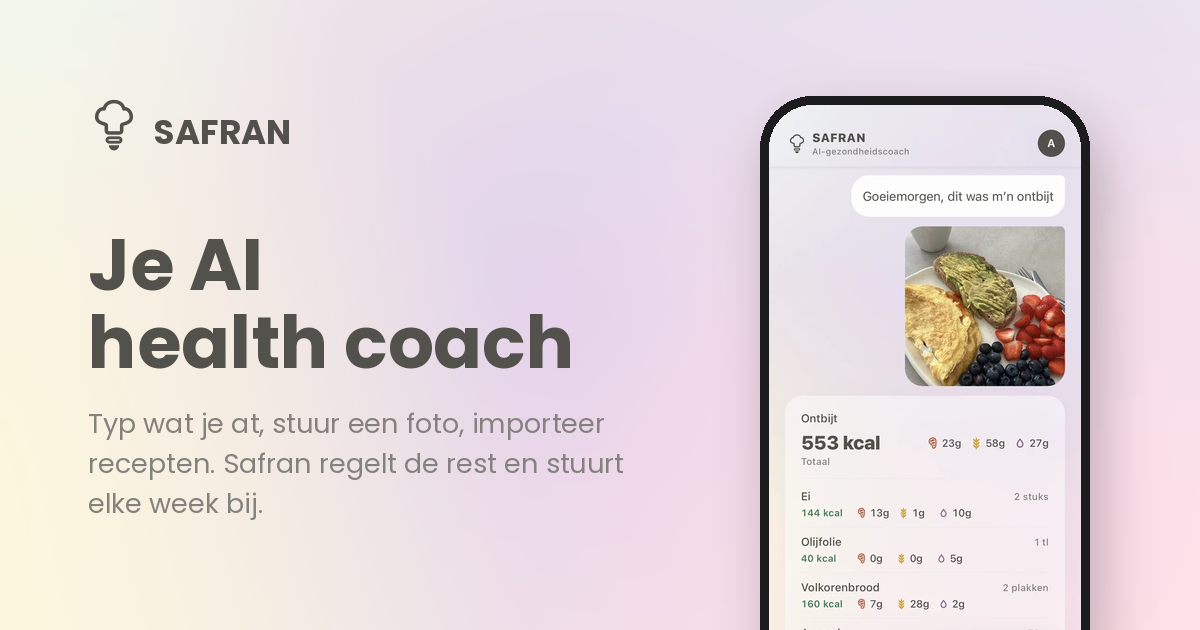
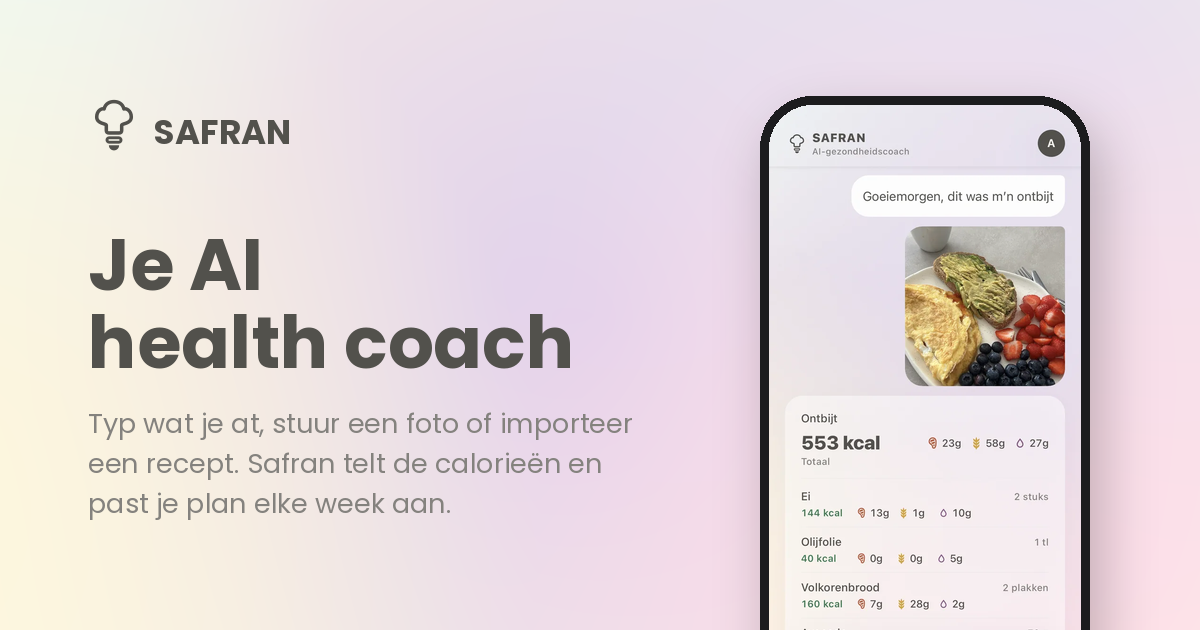
Chapter 4: personalised plan

Changed region(s): [[0.0617, 0.7238, 0.5242, 0.754], [0.0617, 0.7841, 0.37, 0.8143], [0.37, 0.6635, 0.5242, 0.6937]]

diff --git a/index.html b/index.html
@@ -4,7 +4,7 @@
 <meta charset="UTF-8" />
 <meta name="viewport" content="width=device-width, initial-scale=1.0" />
 <title>Safran – Your AI health coach</title>
-<meta name="description" content="Chat what you ate, snap a photo, import recipes from Instagram. Safran turns it into a plan that adjusts to your real life. No hype, real results." />
+<meta name="description" content="Type what you ate, snap a photo or import a recipe from Instagram. Safran counts the calories and adjusts your plan every week. No hype, real results." />
 <meta name="keywords" content="AI health coach, calorie tracker, food logging, macro tracker, meal plan, Safran" />
 <meta name="author" content="Safran" />
 <link rel="canonical" href="https://www.safranapp.com/" />
@@ -22,7 +22,7 @@
 <!-- Open Graph -->
 <meta property="og:site_name" content="Safran" />
 <meta property="og:title" content="Safran – Your AI health coach" />
-<meta property="og:description" content="Chat what you ate, snap a photo, import recipes from Instagram. Safran turns it into a plan that adjusts to your real life." />
+<meta property="og:description" content="Type what you ate, snap a photo or import a recipe from Instagram. Safran counts the calories and adjusts your plan every week." />
 <meta property="og:type" content="website" />
 <meta property="og:url" content="https://www.safranapp.com/" />
 <meta property="og:image" content="https://www.safranapp.com/assets/og-image.png" />
@@ -34,7 +34,7 @@
 <!-- Twitter -->
 <meta name="twitter:card" content="summary_large_image" />
 <meta name="twitter:title" content="Safran – Your AI health coach" />
-<meta name="twitter:description" content="Chat what you ate, snap a photo, import recipes from Instagram. Safran turns it into a plan that adjusts to your real life." />
+<meta name="twitter:description" content="Type what you ate, snap a photo or import a recipe from Instagram. Safran counts the calories and adjusts your plan every week." />
 <meta name="twitter:image" content="https://www.safranapp.com/assets/og-image.png" />
 
 <meta name="apple-itunes-app" content="app-id=6794821755, app-argument=https://www.safranapp.com/" />
@@ -419,7 +419,7 @@
         </p>
         <h1 class="display text-[34px] sm:text-6xl lg:text-7xl leading-[1.05] sm:leading-[1.0] text-[#52514C]" id="hero-title"></h1>
         <p class="mt-5 sm:mt-6 text-base sm:text-xl text-[#84827E] max-w-xl mx-auto leading-relaxed" data-i="hero_sub"></p>
-        <div class="mt-8 flex flex-wrap items-center justify-center gap-x-6 gap-y-3">
+        <div class="mt-8 flex flex-col sm:flex-row flex-wrap items-center justify-center gap-4 sm:gap-x-6 sm:gap-y-3">
           <a href="https://apps.apple.com/app/id6794821755" data-store class="inline-flex items-center gap-3 bg-black hover:bg-[#1a1a1a] active:scale-95 text-white px-7 py-3 rounded-2xl transition-all duration-300 shadow-xl shadow-black/20">
             <svg width="28" height="28" viewBox="0 0 24 24" fill="currentColor"><path d="M17.05 20.28c-.98.95-2.05.8-3.08.35-1.09-.46-2.09-.48-3.24 0-1.44.62-2.2.44-3.06-.35C2.79 15.25 3.51 7.59 9.05 7.31c1.35.07 2.29.74 3.08.8.94-.19 1.84-.86 3.06-.8 1.53.12 2.68.72 3.44 1.83-3.17 1.9-2.66 6.07.42 7.32-.64 1.29-1.31 2.55-2 3.82ZM12.03 7.25c-.15-2.23 1.66-4.07 3.74-4.25.29 2.58-2.34 4.5-3.74 4.25Z"/></svg>
             <span class="text-left leading-tight">
@@ -660,7 +660,7 @@ const T = {
       ['Log like you text', 'Type "had a chicken wrap", send a photo of your plate, scan a barcode or just say it. Safran recognises what you ate, works out the calories and macros and logs it with one tap. Barcodes? Then the values come straight from the label.'],
       ['Your plan gets smarter every week', 'Every week Safran looks back: average intake, days on target, steps and your weight trend. Did the week go differently than planned? You see right away what that does to your goal date, and your calories are adjusted.'],
       ['Save your favourite recipes', 'Spotted a recipe on TikTok, Instagram or YouTube? Paste the link in the chat and Safran pulls out the ingredients, method and nutrition. Save it to your library and log it in one tap when you cook it.'],
-      ['A week menu and the grocery list', 'Ask for a day menu or a week plan and Safran puts it together from your own recipes and the library, tuned to your plan and goal. Fancy something else? Swap a dish with one tap. The grocery list is ready right away, sorted by aisle.'],
+      ['A personalised plan, with the grocery list', 'Ask for a day menu or a week plan and Safran puts it together from your own recipes and the library, tuned to your plan and goal. Fancy something else? Swap a dish with one tap. The grocery list is ready right away, sorted by aisle.'],
     ],
     coach_title: 'Same brain. |Four souls.|',
     coach_sub: 'Every coach knows your plan, your diary and your goal. How they talk to you about it is your choice.',
@@ -752,7 +752,7 @@ const T = {
       ['Loggen zoals je appt', 'Typ "kipwrap gehad", stuur een foto van je bord, scan een barcode of spreek het in. Safran herkent wat je at, rekent de calorieën en macro’s uit en zet het met één tik in je dagboek. Barcodes? Dan komen de waarden rechtstreeks van het etiket.'],
       ['Elke week wordt je plan slimmer', 'Elke week kijkt Safran terug: gemiddelde inname, dagen op doel, stappen en je gewichtstrend. Liep je week anders dan gepland? Dan zie je meteen wat dat doet met je doeldatum, en je calorieën worden bijgesteld.'],
       ['Sla je favoriete recepten op', 'Zie je een recept op TikTok, Instagram of YouTube? Plak de link in de chat en Safran haalt de ingrediënten, bereiding en voedingswaarden eruit. Bewaar het in je bibliotheek en log het met één tik als je het kookt.'],
-      ['Weekmenu én boodschappenlijst', 'Vraag om een dagmenu of een weekplan en Safran stelt het samen uit je eigen recepten en de bibliotheek, afgestemd op je plan en doel. Zin in iets anders? Wissel een gerecht met één tik. De boodschappenlijst staat meteen klaar, gesorteerd per schap.'],
+      ['Een gepersonaliseerd plan, met boodschappenlijst', 'Vraag om een dagmenu of een weekplan en Safran stelt het samen uit je eigen recepten en de bibliotheek, afgestemd op je plan en doel. Zin in iets anders? Wissel een gerecht met één tik. De boodschappenlijst staat meteen klaar, gesorteerd per schap.'],
     ],
     coach_title: 'Zelfde kennis. |Vier karakters.|',
     coach_sub: 'Elke coach kent je plan, je dagboek en je doel. Hoe ze er met je over praten, dat kies jij.',

diff --git a/scripts/render-og.py b/scripts/render-og.py
@@ -44,17 +44,17 @@ COPY = {
         'out': 'og-image.png',
         'shot': 'include-1-en.webp',
         'head': ['Your AI', 'health coach'],
-        'sub': ['Chat what you ate, snap a photo, import',
-                'recipes. Safran plans the rest and adjusts',
-                'every week.'],
+        'sub': ['Type what you ate, snap a photo or import',
+                'a recipe. Safran counts the calories and',
+                'adjusts your plan every week.'],
     },
     'nl': {
         'out': 'og-image-nl.png',
         'shot': 'include-1-nl.webp',
         'head': ['Je AI', 'health coach'],
-        'sub': ['Typ wat je at, stuur een foto, importeer',
-                'recepten. Safran regelt de rest en stuurt',
-                'elke week bij.'],
+        'sub': ['Typ wat je at, stuur een foto of importeer',
+                'een recept. Safran telt de calorieën en',
+                'past je plan elke week aan.'],
     },
 }
 
